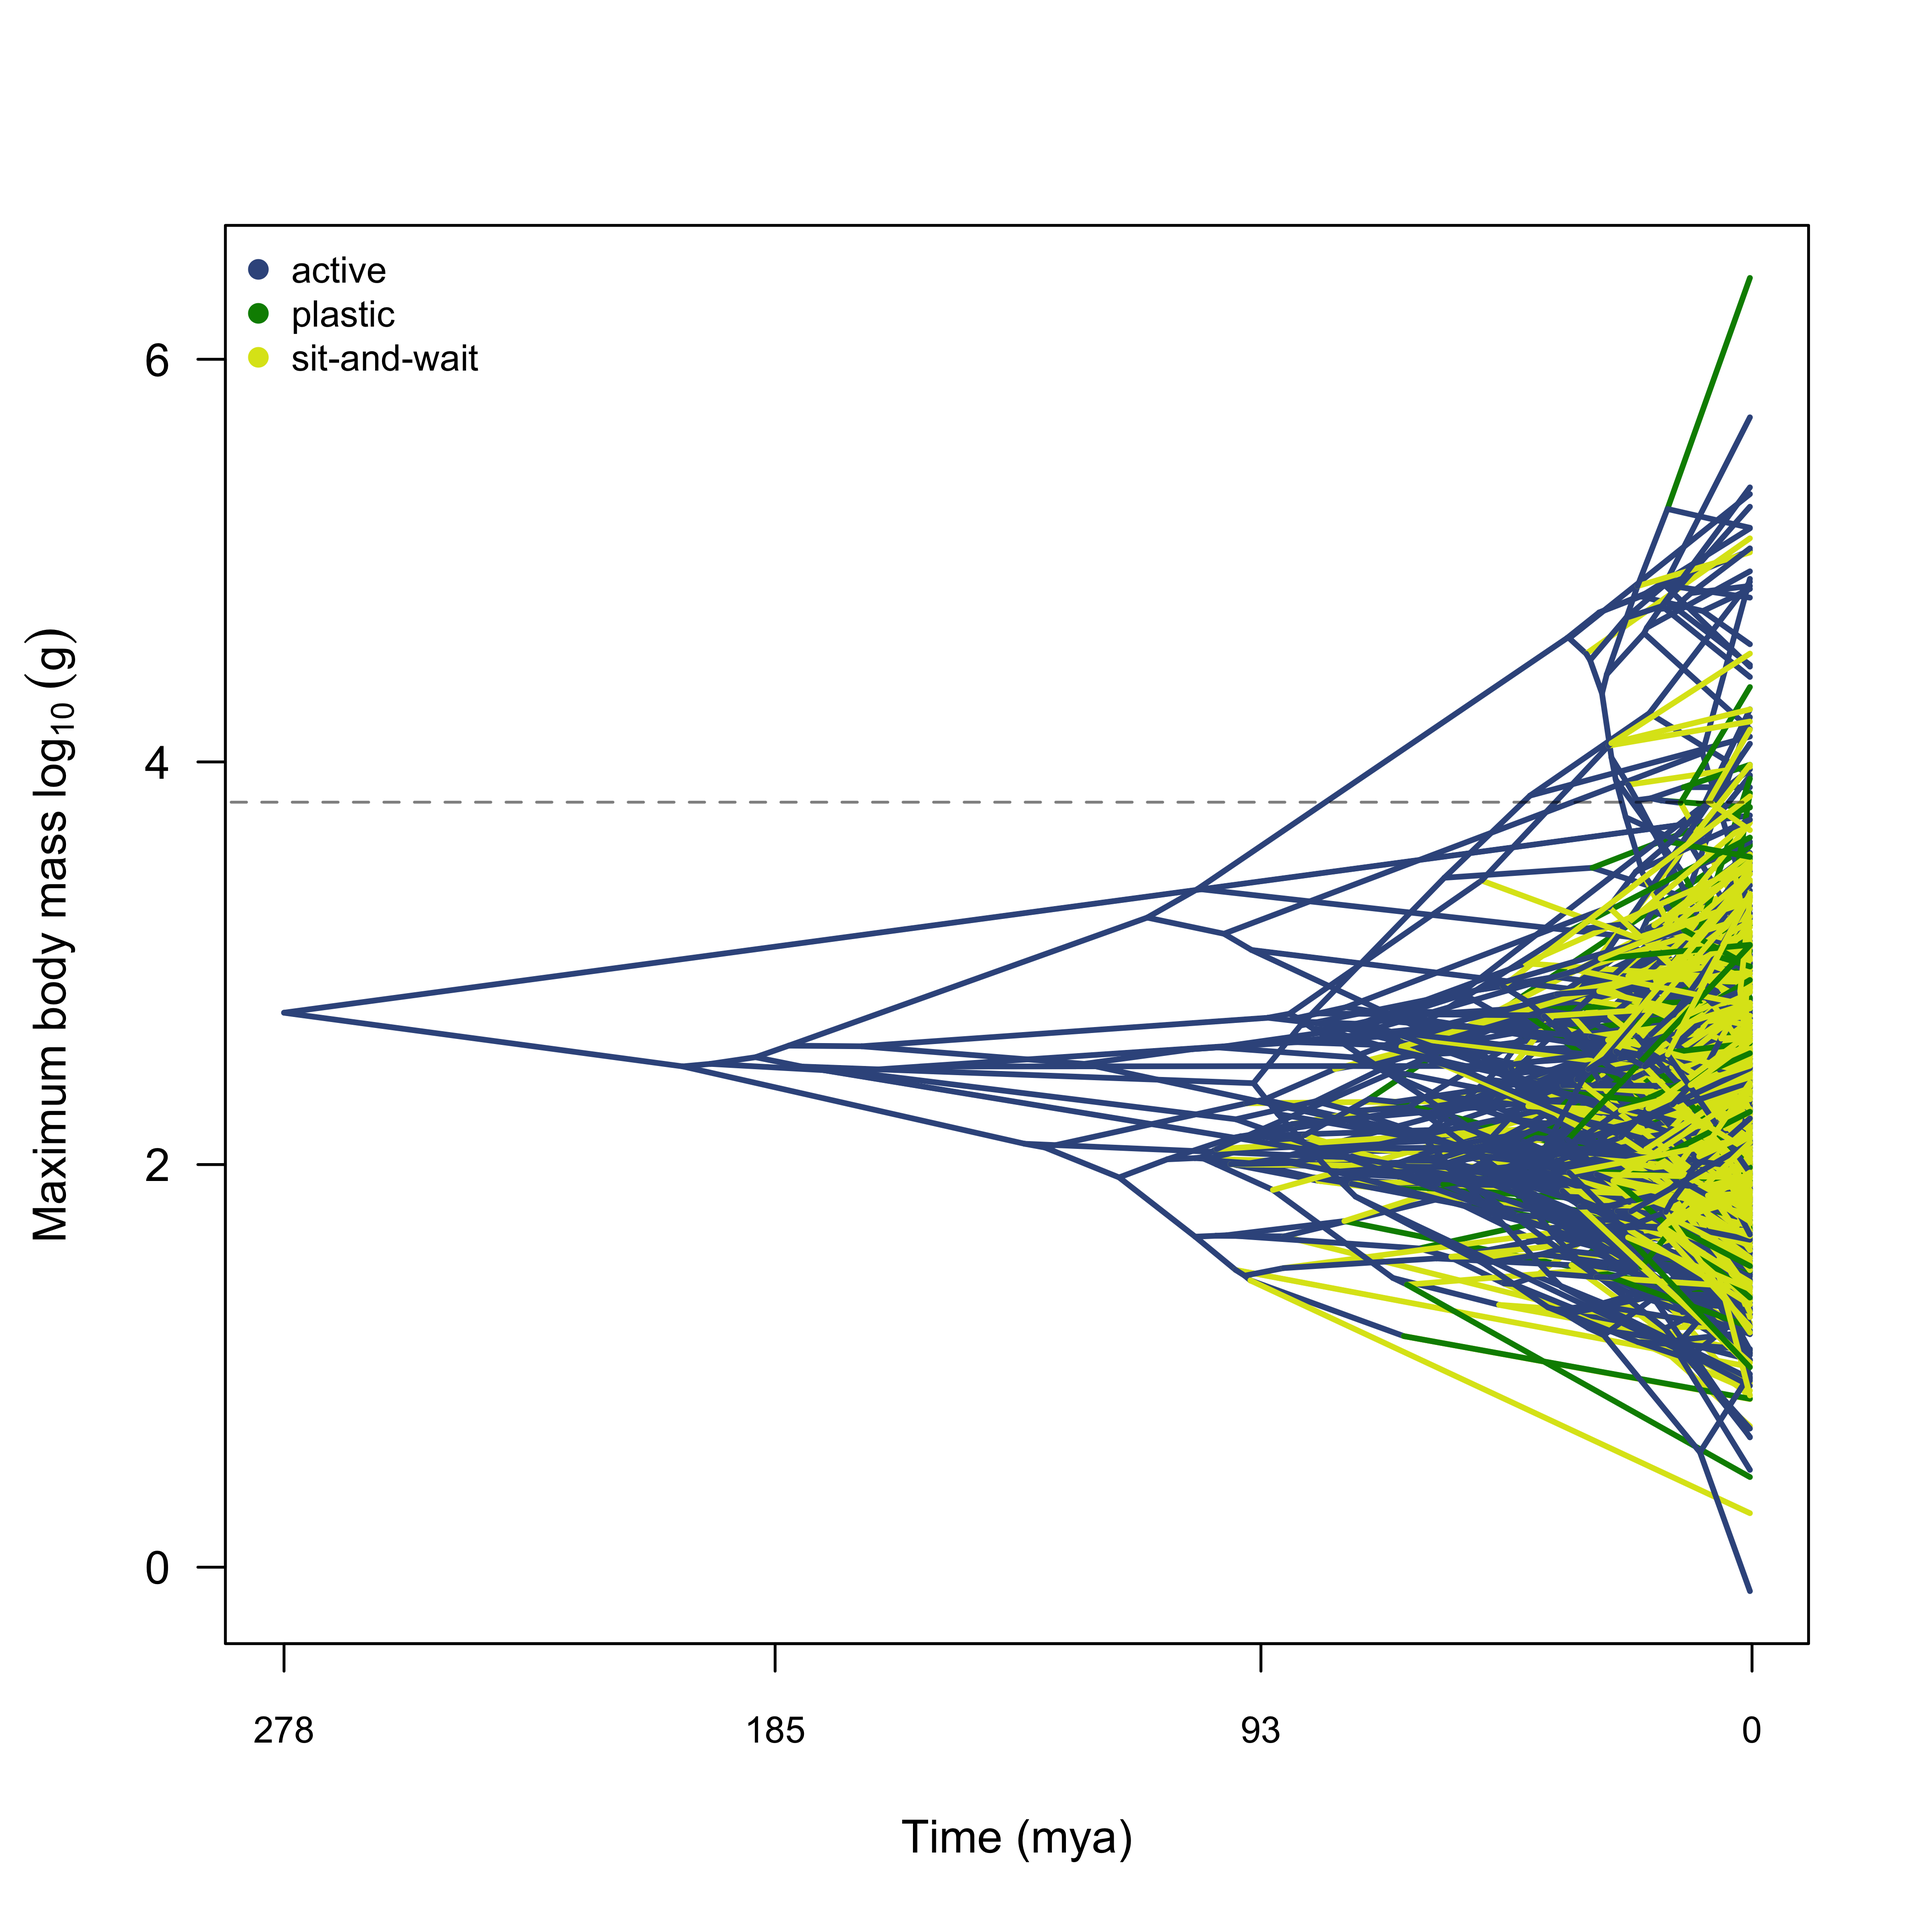
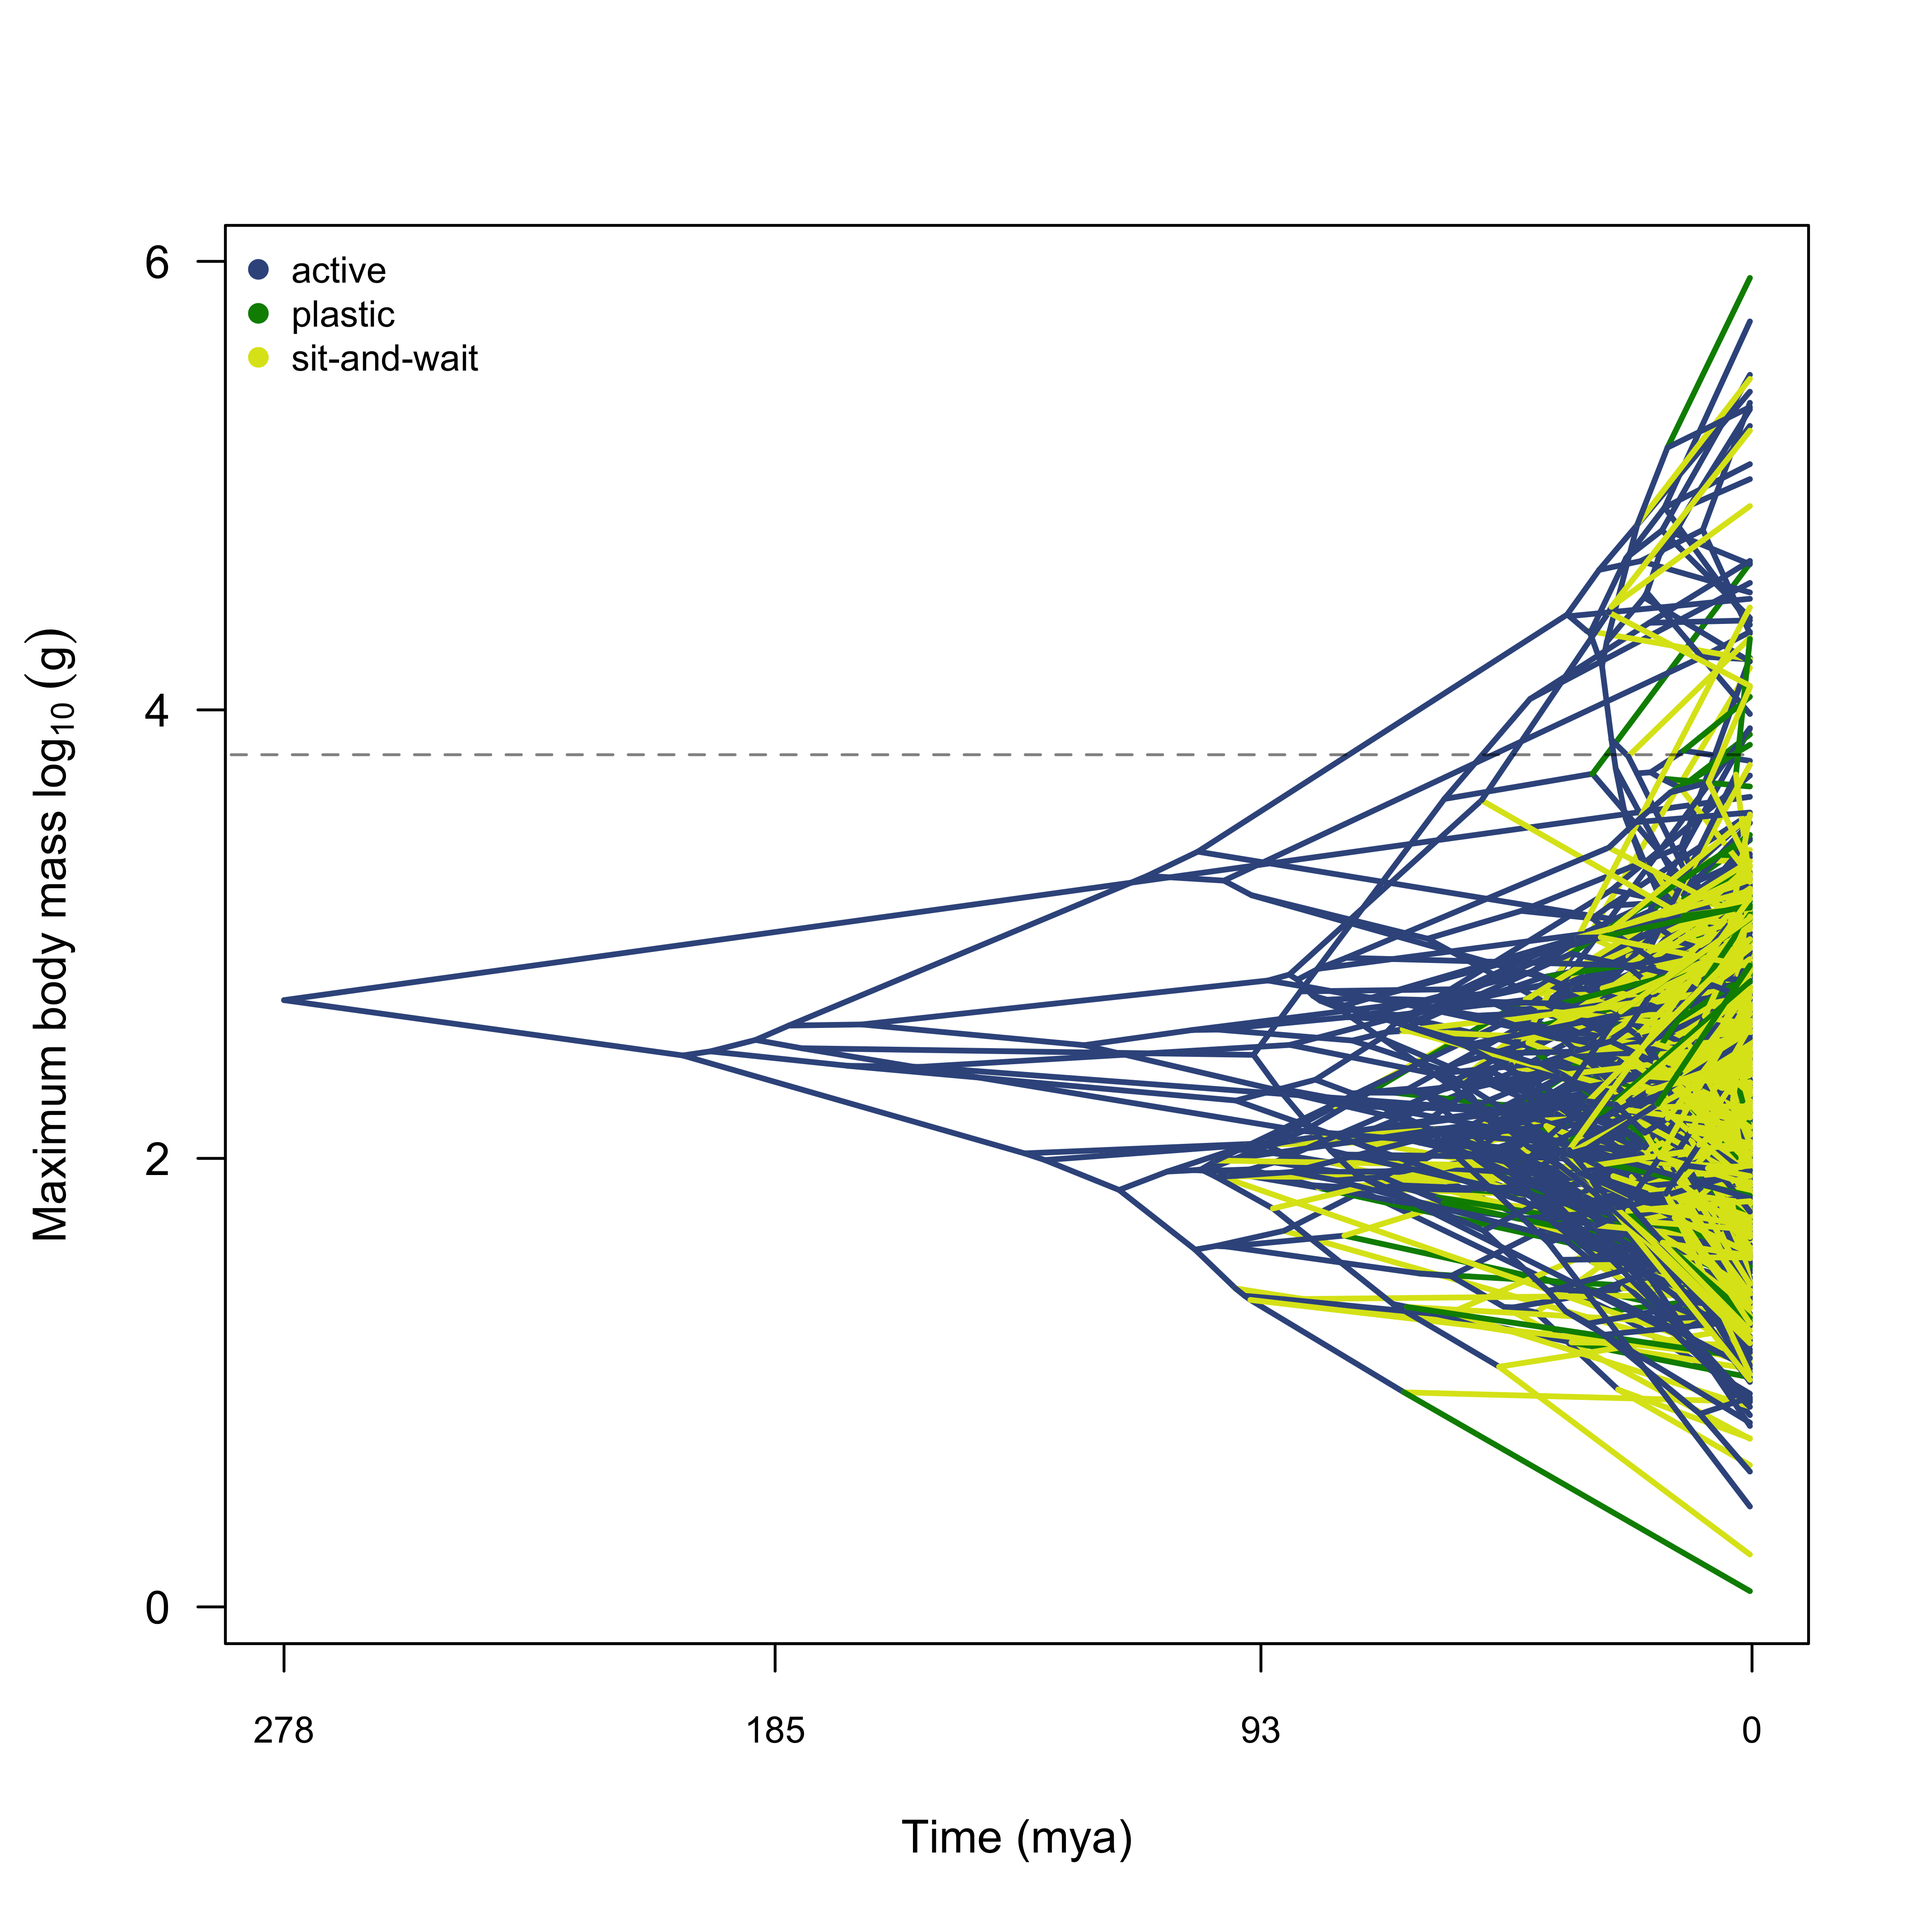
modified index.qmd

Changed region(s): [[0.156, 0.156, 0.9357, 0.811], [0.0624, 0.811, 0.0936, 0.8421], [0.0624, 0.5926, 0.0936, 0.6238]]

diff --git a/index.html b/index.html
@@ -6539,7 +6539,7 @@ window.document.addEventListener("DOMContentLoaded", function (event) {
 </script><div class="modal fade" id="quarto-embedded-source-code-modal" tabindex="-1" aria-labelledby="quarto-embedded-source-code-modal-label" aria-hidden="true"><div class="modal-dialog modal-dialog-scrollable"><div class="modal-content"><div class="modal-header"><h5 class="modal-title" id="quarto-embedded-source-code-modal-label">Source Code</h5><button class="btn-close" data-bs-dismiss="modal"></button></div><div class="modal-body"><div class="">
 <div class="sourceCode" id="cb326" data-shortcodes="false"><pre class="sourceCode numberSource markdown number-lines code-with-copy"><code class="sourceCode markdown"><span id="cb326-1"><a href="#cb326-1"></a><span class="co">---</span></span>
 <span id="cb326-2"><a href="#cb326-2"></a><span class="an">title:</span><span class="co"> "Data analysis for: Relative High Fitness and Large Genome Size May Lead to the High Diversification of Plastic Foragers"</span></span>
-<span id="cb326-3"><a href="#cb326-3"></a><span class="co">#author: '[Dylan Padilla](https://dylanpadilla.netlify.app/), Martha Munoz, David Skelly &lt;br&gt; Yale In#stitute for Biospheric Studies &amp; Yale School of the Environment, New Haven, CT 06511'</span></span>
+<span id="cb326-3"><a href="#cb326-3"></a><span class="co">##author: '[Dylan Padilla](https://dylanpadilla.netlify.app/), Martha Munoz, David Skelly &lt;br&gt; Yale In#stitute for Biospheric Studies &amp; Yale School of the Environment, New Haven, CT 06511'</span></span>
 <span id="cb326-4"><a href="#cb326-4"></a><span class="an">format:</span></span>
 <span id="cb326-5"><a href="#cb326-5"></a><span class="co">  html:</span></span>
 <span id="cb326-6"><a href="#cb326-6"></a><span class="co">    code-line-numbers: true</span></span>
